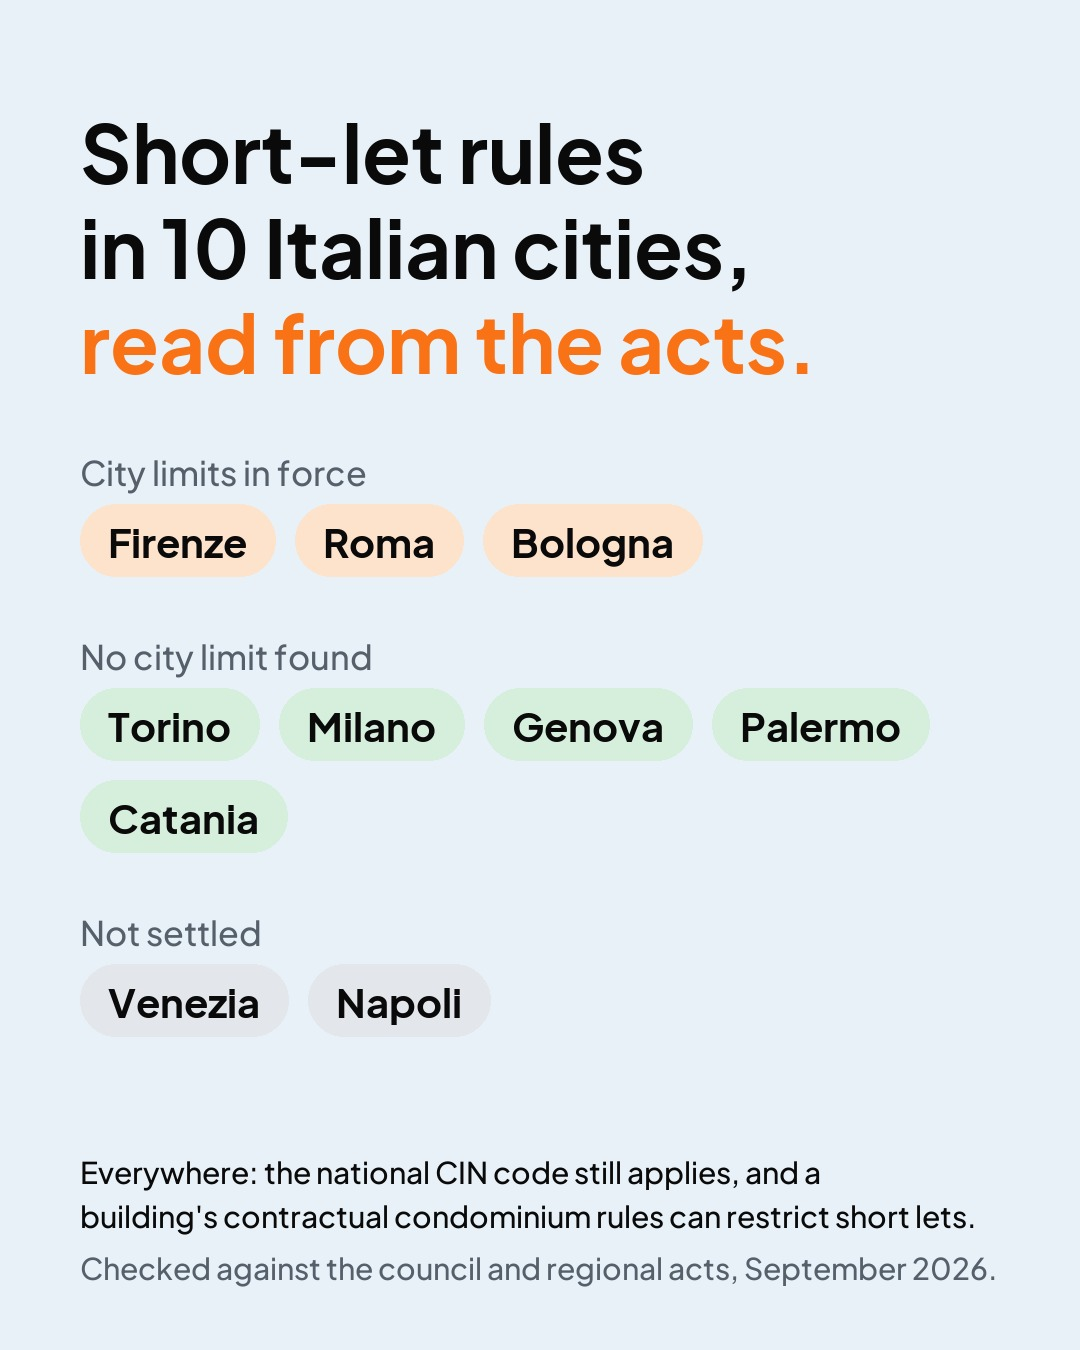
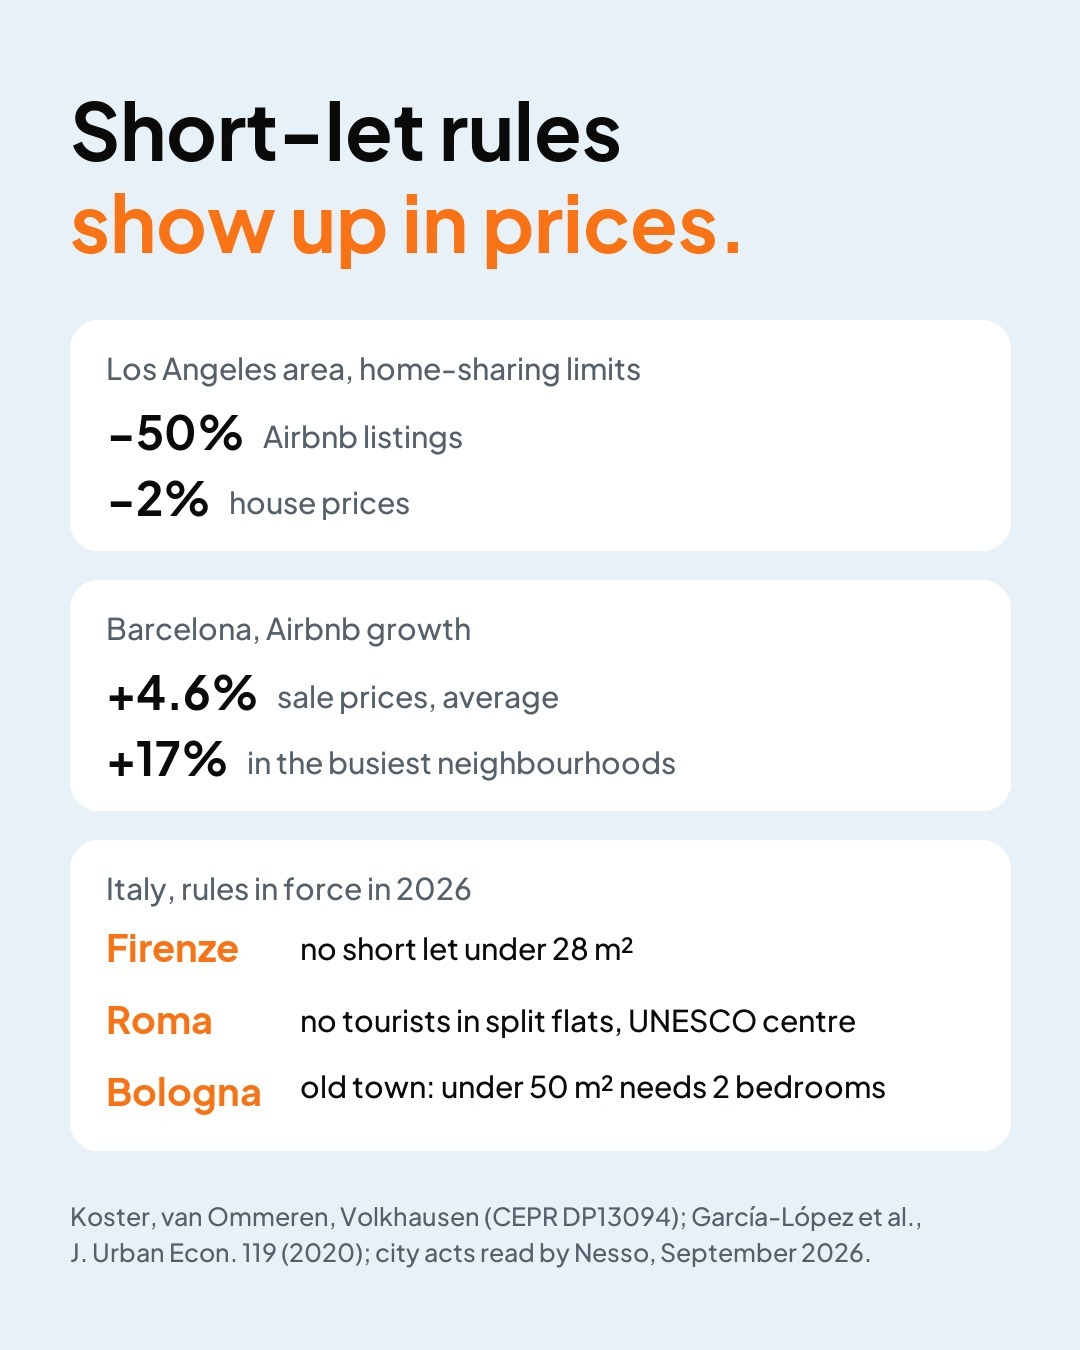
Short-let post: what the rules do to money, not which city allows what
The founder: a list of permitted and restricted cities is news, and Nesso
is not a news site. The post now leads with what restrictions do to
prices (Los Angeles: listings about -50%, house prices about -2%, Koster,
van Ommeren and Volkhausen, VoxEU and CEPR DP13094; Barcelona: rents
+1.9%, sale prices +4.6%, up to +7% and +17%, Garcia-Lopez et al., JUE
2020) and which Italian strategies the three city rules close, then why
Nesso scores short lets only where it has read the rule.

Changed region(s): [[0.0611, 0.0622, 0.9167, 0.9644]]

diff --git a/drafts/li-nesso/short-let-rules/post.md b/drafts/li-nesso/short-let-rules/post.md
@@ -4,21 +4,15 @@ at: 2026-11-19T08:30+01:00
 type: multi-image
 media: post-3a-photo.jpg, post-3b-short-let-rules.jpg
 ---
-We read the short-let rules of 10 Italian cities. The acts, not the articles about them. 📜
+Short-let rules show up in prices. 📉
 
-⛔ City limits in force: Firenze, Roma, Bologna
-✅ No city limit found: Torino, Milano, Genova, Palermo, Catania
-❔ Not settled: Venezia, Napoli
+When cities around Los Angeles limited home-sharing, Airbnb listings fell by about half and house prices by about 2% (Koster, van Ommeren and Volkhausen). In Barcelona, Airbnb growth raised rents by 1.9% and sale prices by 4.6% on average, and by 7% and 17% in the busiest neighbourhoods (García-López and co-authors, Journal of Urban Economics, 2020).
 
-The same word hides three very different rules:
-· Firenze: a five-year authorisation per unit, a 28 m² minimum, and no new short lets in three parts of the historic centre since June 2026
-· Roma: the limit reaches only flats created by converting or splitting units inside the UNESCO centre
-· Bologna: a 50 m² minimum in the historic city
+In Italy, three big cities now close specific strategies:
+· Firenze: a flat under 28 m² can't be a short let at all. It can only be let for more than 30 days
+· Roma: in the UNESCO centre, a flat split in two, or a shop turned into a flat, can no longer take tourists
+· Bologna: in the historic city, a new short let under 50 m² needs two bedrooms
 
-Venezia's 120-day cap, widely reported as law since 2024, was still a council proposal when we checked in September.
+So Nesso reads the rule before it scores a short-let investment. Where a rule restricts it or is not verified, there is no short-let score, and the district is judged on long-let yield and resale.
 
-For scale: at the start of 2025 Italy's national register listed 571,411 places to stay, short lets included, and 79% had their CIN code.
-
-Where a rule is not verified, Nesso gives no short-let score.
-
-#proptech #shorttermrentals #italy
+#proptech #realestateinvesting #italy
